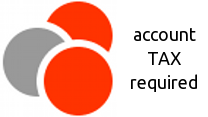
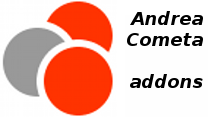
images

Changed region(s): [[0.6058, 0.0769, 0.9808, 0.4103], [0.6058, 0.6154, 0.9808, 0.7949], [0.6923, 0.4359, 0.8942, 0.5641]]

diff --git a/account_spesa/__openerp__.py b/account_spesa/__openerp__.py
@@ -36,5 +36,6 @@
     ],
     "demo_xml" : [],
     "active": False,
-    "installable": True
+    "installable": True,
+    "images": ['images/image.png'],
 }
